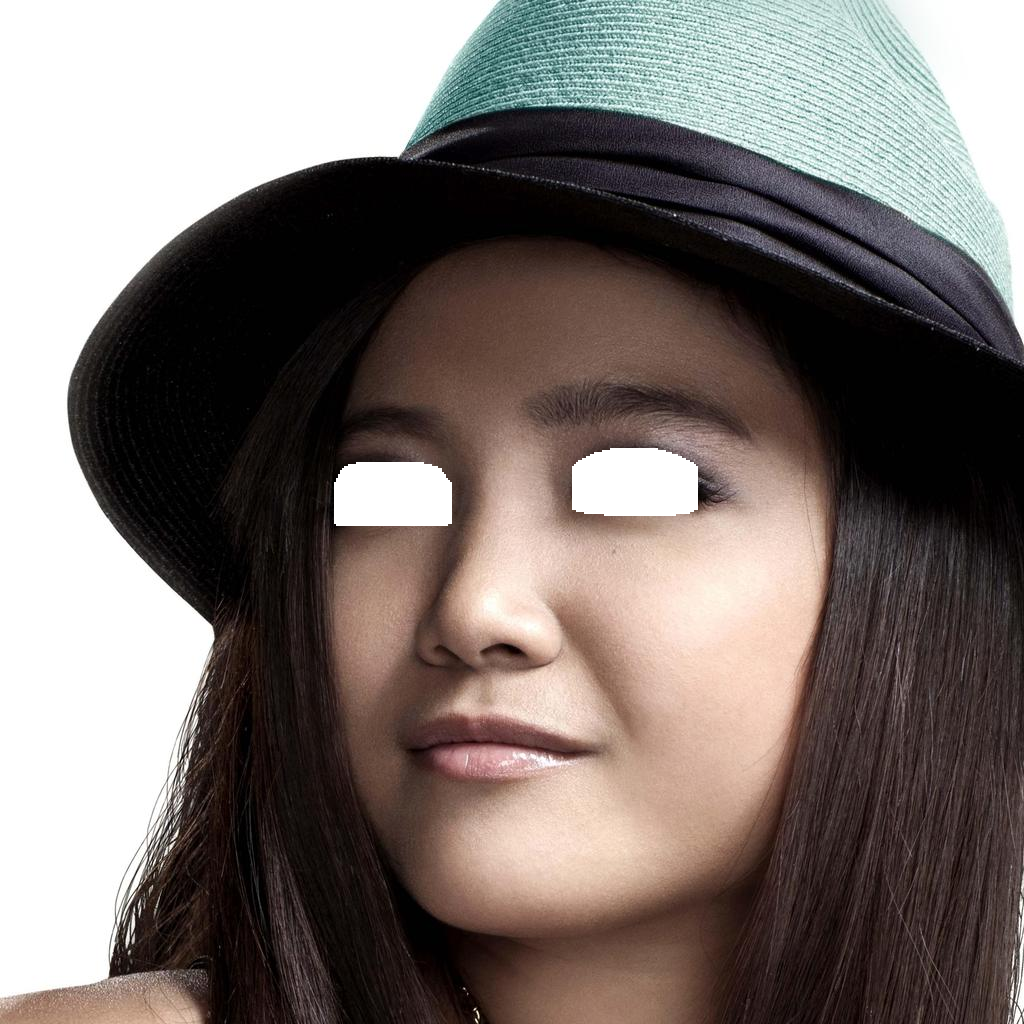
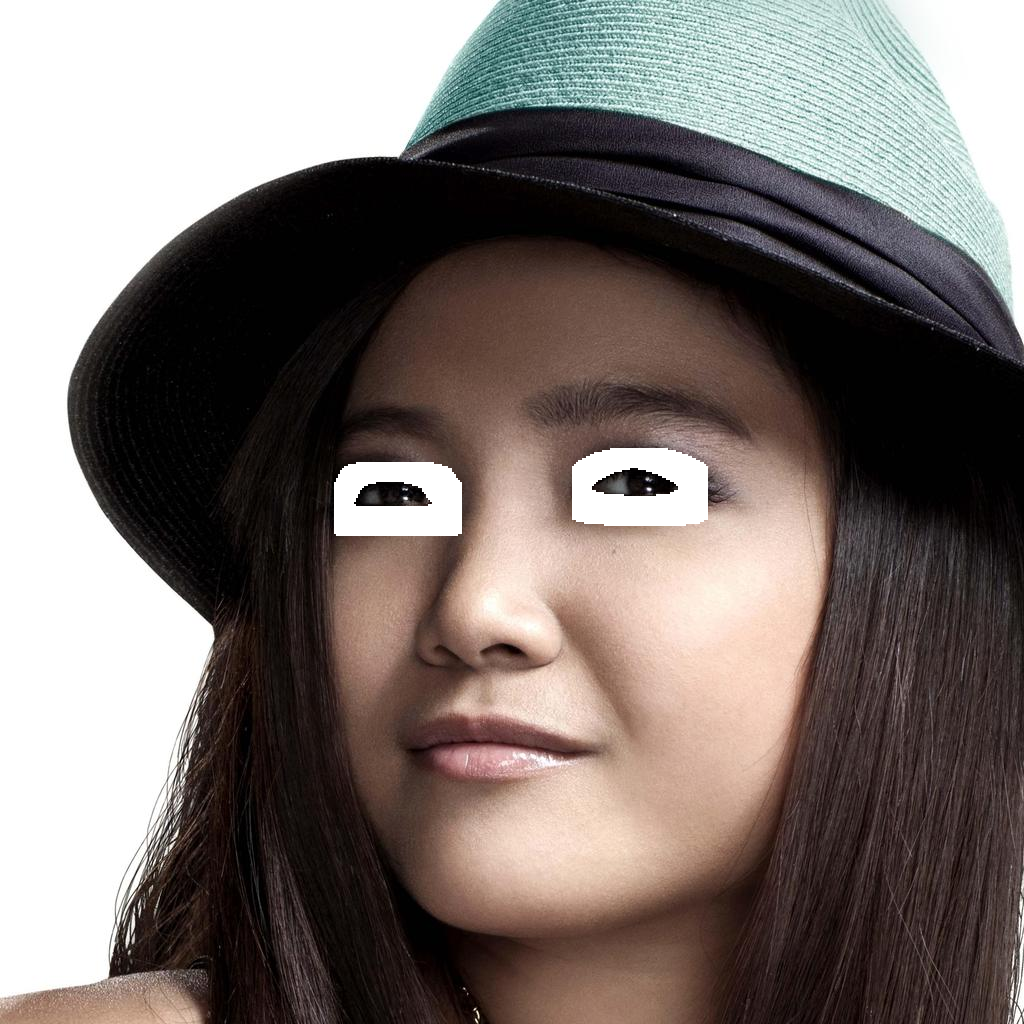
add eyeshadow dilation

Changed region(s): [[0.5625, 0.4375, 0.7188, 0.5312], [0.3125, 0.4688, 0.4688, 0.5312]]

diff --git a/eyeshadow_dilation.py b/eyeshadow_dilation.py
@@ -1,0 +1,171 @@
+import cv2
+import os
+import numpy as np
+from skimage.filters import gaussian
+from test_2 import evaluate
+import argparse
+import json
+
+# def parse_args():
+#     parse = argparse.ArgumentParser()
+#     parse.add_argument("-i",'--img-path', default='imgs/6.jpg')
+#     parse.add_argument("-o","--output",default="dilate_segmented.png")
+#     return parse.parse_args()
+
+
+def sharpen(img):
+    img = img * 1.0
+    gauss_out = gaussian(img, sigma=5, multichannel=True)
+
+    alpha = 1.5
+    img_out = (img - gauss_out) * alpha + img
+
+    img_out = img_out / 255.0
+
+    mask_1 = img_out < 0
+    mask_2 = img_out > 1
+
+    img_out = img_out * (1 - mask_1)
+    img_out = img_out * (1 - mask_2) + mask_2
+    img_out = np.clip(img_out, 0, 1)
+    img_out = img_out * 255
+    return np.array(img_out, dtype=np.uint8)
+
+
+def change_color(image, parsing, part=17, color=[255,255,255]):
+    b, g, r = color      #[10, 50, 250]       # [10, 250, 10]
+    tar_color = np.zeros_like(image)
+    tar_color[:, :, 0] = b
+    tar_color[:, :, 1] = g
+    tar_color[:, :, 2] = r
+    
+    tar_color[parsing != part] = image[parsing != part]
+    return tar_color
+
+def change_color_inverse(image, parsing, part=17, color=[255,255,255]):
+    b, g, r = color      #[10, 50, 250]       # [10, 250, 10]
+    tar_color = np.zeros_like(image)
+    tar_color[:, :, 0] = b
+    tar_color[:, :, 1] = g
+    tar_color[:, :, 2] = r
+    
+    tar_color[parsing == part] = image[parsing == part]
+    return tar_color
+
+def change_color_gray(image,parsing,parts):
+    b1,g1,r1 = [255,255,255]
+    tar_color1 = np.zeros_like(image)
+    tar_color1[:,:,0] = b1
+    tar_color1[:,:,1] = g1
+    tar_color1[:,:,2] = r1
+    
+    tar_color2 = np.zeros_like(image)
+    parts = np.array(parts)
+    tar_color2[np.isin(parsing,parts)] = tar_color1[np.isin(parsing,parts)]
+    return tar_color2
+
+def dilate_image(image,kernel_size=(5,5),iterate=1):
+    dilation = cv2.cvtColor(image, cv2.COLOR_BGR2GRAY)
+    kernel = np.ones(kernel_size,np.uint8)
+    dilation = cv2.dilate(dilation,kernel,iterations=iterate)
+    # for i in range(20):
+    #     dilation = cv2.dilate(dilation,kernel,iterations=iterate)
+    # # dilation = cv2.dilate(image_gray,kernel,iterations=iterate)
+    # # dilation = cv2.dilate(dilation,kernel,iterations=iterate)
+    return dilation
+    
+def change_eyeshadow(dilation_image,parsing,parts):
+    # grayscale_image = cv2.cvtColor(grayscale_image,cv2.COLOR_BGR2GRAY)
+    tar_color = np.zeros_like(dilation_image)
+    
+    dilation_image[np.isin(parsing,parts)] = tar_color[np.isin(parsing,parts)]
+    return dilation_image
+
+def get_coordinate_wh(parsing,parts):
+    dict_result = {}
+    for p in parts:
+        coordinat_orig = []
+        for x in range(parsing.shape[0]):
+            for y in range(parsing.shape[1]):
+                if parsing[x,y] == p:
+                    coordinat_orig.append([y,x])
+        coordinat = np.array(coordinat_orig)
+        w = int(np.max(coordinat[:,0]) - np.min(coordinat[:,0]))
+        h = int(np.max(coordinat[:,1]) - np.min(coordinat[:,1]))
+        if p == 4:
+            dict_result["l"] = {"coordinat":coordinat_orig,"w":w,"h":h}
+        else:
+            dict_result["r"] = {"coordinat":coordinat_orig,"w":w,"h":h}
+    return dict_result
+
+
+if __name__ == '__main__':
+    # 1  face
+    # 11 teeth
+    # 12 upper lip
+    # 13 lower lip
+    # 17 hair
+
+    # args = parse_args()
+
+    table = {
+        # 'face': 1,
+        # 'eyebrows_l': 2,
+        # 'eyebrows_r': 3,
+        'eyes_l':4,
+        'eyes_r':5
+        # 'ears': 8,
+        # 'nose':10,
+        # 'teeth': 11,
+        # 'hair': 17,
+        # 'upper_lip': 12,
+        # 'lower_lip': 13
+    }
+    
+    src_dir = "C:\\Users\\GULO\\Documents\\KEISUU\\JT-Dataset\\images\\non-makeup"
+    dest_dir = "C:\\Users\\GULO\\Documents\\KEISUU\\JT-Dataset\\images\\result_non_makeup"
+    
+    files = [file for file in os.listdir(src_dir)]
+    
+    for f in files:
+        print(f)
+        try:
+            # image_path = args.img_path
+            image_path = os.path.join(src_dir,f)
+            cp = 'cp/79999_iter.pth'
+        
+            image = cv2.imread(image_path)
+            ori = image.copy()
+            parsing = evaluate(image_path, cp)
+            parsing = cv2.resize(parsing, image.shape[0:2], interpolation=cv2.INTER_NEAREST)
+            
+            parts = [table['eyes_l'],table['eyes_r']]
+            colors = [[255,255,255],[255,255,255]]
+            # get_cwh = get_coordinate_wh(parsing, parts)
+            grayscale_image = change_color_gray(ori,parsing,parts)   
+            dilation_image = dilate_image(grayscale_image,kernel_size=(10,10),iterate=20)
+            eyeshadow_image = change_eyeshadow(dilation_image,parsing,parts)
+            
+            image_segmented_remove = change_color(ori,eyeshadow_image,255)
+            image_eyes = change_color_inverse(ori, eyeshadow_image,255)
+        
+            cv2.imwrite("{}".format(os.path.join(dest_dir,f)),image_segmented_remove)
+            out_inverse = "inverse_{}".format(f)
+            cv2.imwrite("{}".format(os.path.join(dest_dir,out_inverse)),image_eyes)
+        except:
+            print("Error!")
+    # a = json.dumps(get_cwh)
+    # with open("coordinat_wh.json",'w') as f:
+    #     json.dump(get_cwh,f)
+
+
+
+
+
+
+
+
+
+
+
+

diff --git a/eye_dilation.py b/eye_dilation.py
@@ -65,10 +65,13 @@ def change_color_gray(image,parsing,parts):
     return tar_color2
 
 def dilate_image(image,kernel_size=(5,5),iterate=1):
-    image_gray = cv2.cvtColor(image, cv2.COLOR_BGR2GRAY)
+    dilation = cv2.cvtColor(image, cv2.COLOR_BGR2GRAY)
     kernel = np.ones(kernel_size,np.uint8)
-    dilation = cv2.dilate(image_gray,kernel,iterations=iterate)
     dilation = cv2.dilate(dilation,kernel,iterations=iterate)
+    # for i in range(20):
+    #     dilation = cv2.dilate(dilation,kernel,iterations=iterate)
+    # # dilation = cv2.dilate(image_gray,kernel,iterations=iterate)
+    # # dilation = cv2.dilate(dilation,kernel,iterations=iterate)
     return dilation
     
 
@@ -105,7 +108,7 @@ if __name__ == '__main__':
     parts = [table['eyes_l'],table['eyes_r']]
     colors = [[255,255,255],[255,255,255]]
     grayscale_image = change_color_gray(ori,parsing,parts)   
-    dilation_image = dilate_image(grayscale_image,kernel_size=(5,5),iterate=5)
+    dilation_image = dilate_image(grayscale_image,kernel_size=(2,2),iterate=1)
     
     image_segmented_remove = change_color(ori,dilation_image,255)
     image_eyes = change_color_inverse(ori, dilation_image,255)
